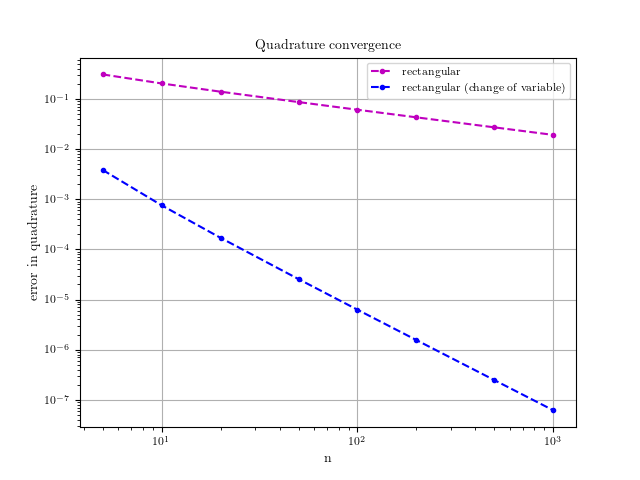
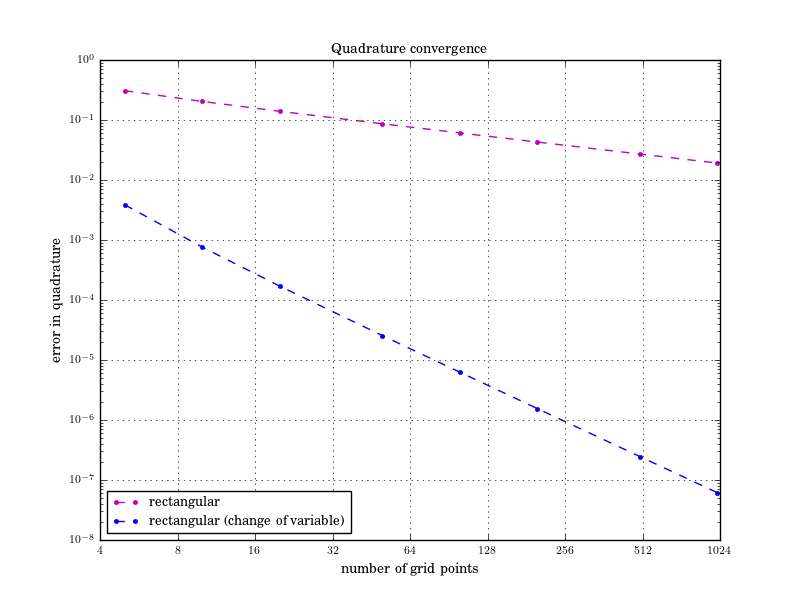
plot style use classic

diff --git a/Endsem/Scripts/program7.py b/Endsem/Scripts/program7.py
@@ -7,6 +7,8 @@
 
 import matplotlib
 import matplotlib.pyplot as plt
+plt.style.use('classic')
+from matplotlib.ticker import ScalarFormatter
 import numpy as np
 
 matplotlib.rcParams["pgf.texsystem"] = "pdflatex"
@@ -63,11 +65,16 @@ for k, N in enumerate(N):
 rect_err = abs(np.double(rect - exact))
 recv_err = abs(np.double(recv - exact))
 
+formatter = ScalarFormatter()
+formatter.set_scientific(False)
+
 fig, ax = plt.subplots()
-ax.loglog(n, rect_err, 'm.--', label=r'rectangular')
-ax.loglog(n, recv_err, 'b.--', label=r'rectangular (change of variable)')
-ax.set(xlabel=r"n", ylabel=r"error in quadrature")
+ax.plot(n, rect_err, 'm.--', label=r'rectangular')
+ax.plot(n, recv_err, 'b.--', label=r'rectangular (change of variable)')
+ax.set_xscale("log", base=2)
+ax.set_yscale("log", base=10)
+ax.xaxis.set_major_formatter(formatter)
+ax.set(xlabel=r"number of grid points", ylabel=r"error in quadrature")
 ax.set_title(r"Quadrature convergence")
-ax.grid(True)
-ax.legend()
+ax.grid(True); ax.legend(loc="lower left")
 plt.savefig("program7.png")
